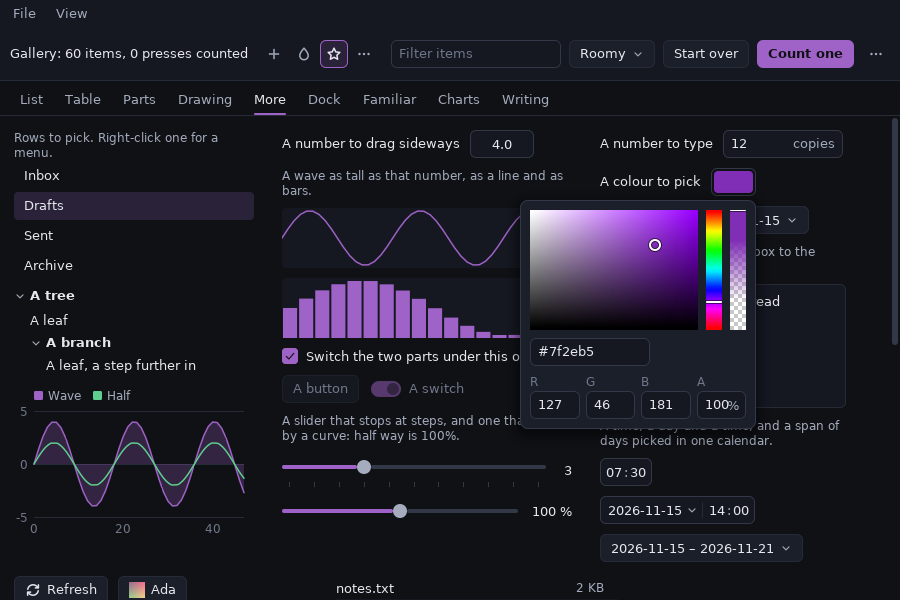
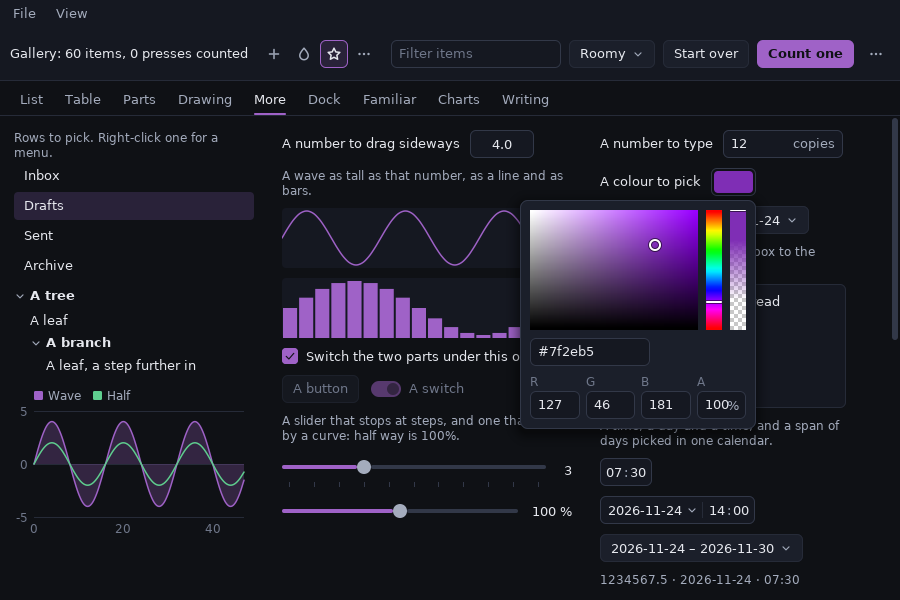
Update gallery wave sampling and Linux screenshot
- Sample the gallery wave at 16 values per period so points land on each peak and trough.
- A smooth curve then stays round at the peaks instead of flattening between samples.
- Refresh docs/linux.png to show the updated wave.

diff --git a/examples/gallery.rs b/examples/gallery.rs
@@ -980,7 +980,9 @@ fn dim_text(ui: &mut Ui, text: &str) {
 
 /// The page of more parts: three columns, the parts other libraries name, and a code editor.
 fn more_parts(app: &mut App, ui: &mut Ui) {
-    let wave: Vec<f32> = (0..48).map(|i| (i as f32 * 0.35).sin() * app.amount).collect();
+    // Sixteen values to a wave, so one falls on each peak and trough and a smooth line
+    // through them is round there, not flattened between two values either side.
+    let wave: Vec<f32> = (0..48).map(|i| (i as f32 * std::f32::consts::PI / 8.0).sin() * app.amount).collect();
     ui.column().grow().scroll().open();
     ui.row().pad(14.0).gap(28.0).align(Align::Start, Align::Start).open();
     rows_tree_and_chart(app, ui, &wave);
